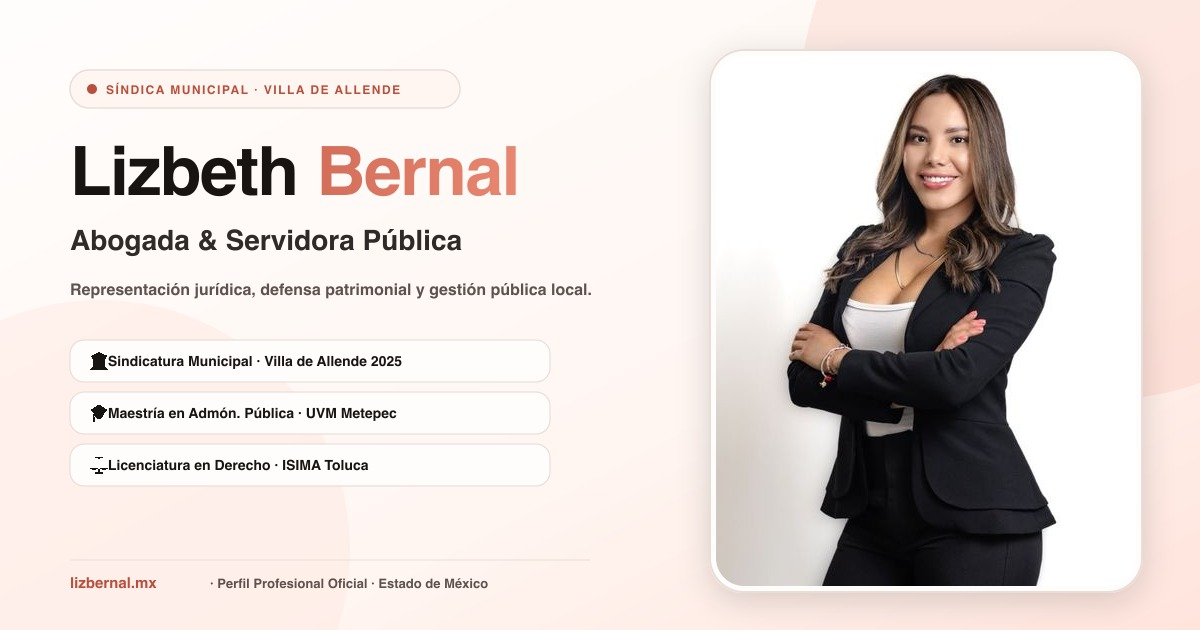
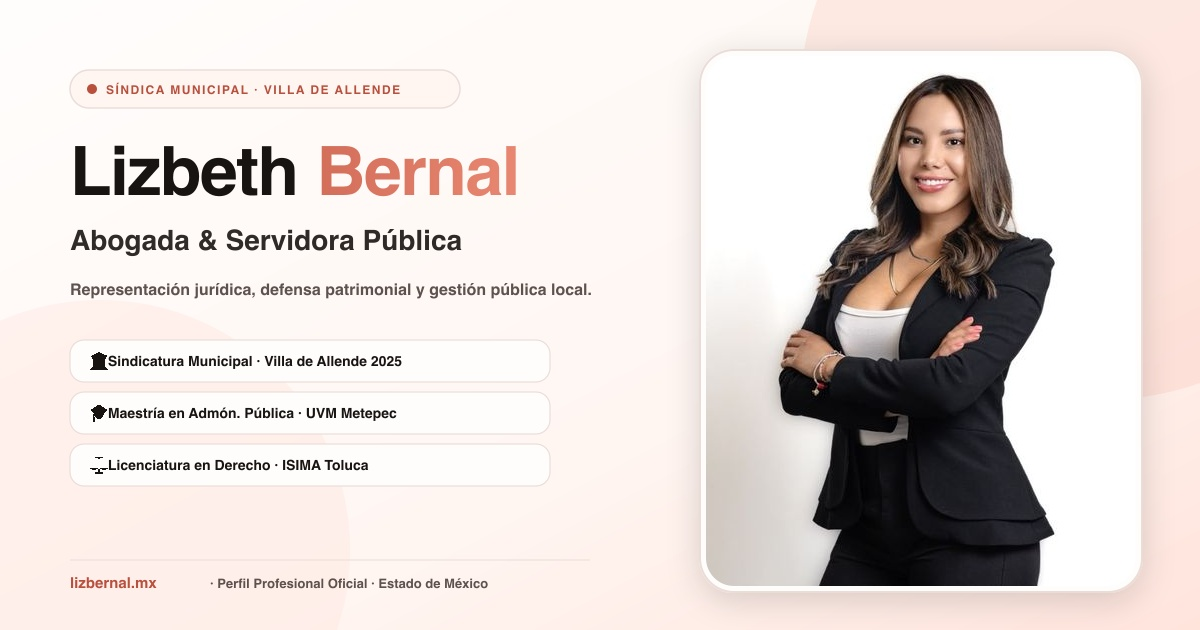
feat: updated OpenGraph preview cards across all formats with the newly uploaded official portrait of Lizbeth Bernal

diff --git a/scripts/generate-og.js b/scripts/generate-og.js
@@ -6,11 +6,11 @@ async function createOgImage() {
   const width = 1200;
   const height = 630;
 
-  // 1. Prepare portrait: resize and round corners
-  const portraitPath = path.join(__dirname, '../public/images/lizbeth-bernal-retrato.jpg');
+  // 1. Prepare newly uploaded portrait: resize and round corners
+  const portraitPath = path.join(__dirname, '../public/images/lizbeth-bernal-og-portrait.jpg');
   
-  // Crop / resize portrait to 420x530
-  const portraitWidth = 420;
+  // Crop / resize portrait to 430x530 with perfect focus on face and posture
+  const portraitWidth = 430;
   const portraitHeight = 530;
   
   const portraitBuffer = await sharp(portraitPath)
@@ -103,7 +103,7 @@ async function createOgImage() {
       </g>
 
       <!-- Right Column: Portrait Photo Frame Border & Shadow -->
-      <g transform="translate(710, 50)" filter="url(#shadow)">
+      <g transform="translate(700, 50)" filter="url(#shadow)">
         <rect width="${portraitWidth + 12}" height="${portraitHeight + 12}" rx="34" fill="#FFFDFC" stroke="#EADDD8" stroke-width="2"/>
       </g>
     </svg>
@@ -117,18 +117,19 @@ async function createOgImage() {
       {
         input: roundedPortrait,
         top: 56,
-        left: 716,
+        left: 706,
       },
     ])
-    .jpeg({ quality: 92 })
+    .jpeg({ quality: 95 })
     .toBuffer();
 
   // Save as static files for OpenGraph / WhatsApp / Facebook / Twitter
   fs.writeFileSync(path.join(__dirname, '../public/og-image.jpg'), finalOgImage);
   fs.writeFileSync(path.join(__dirname, '../public/images/og-lizbeth-bernal.jpg'), finalOgImage);
+  fs.writeFileSync(path.join(__dirname, '../public/opengraph-image.jpg'), finalOgImage);
   fs.writeFileSync(path.join(__dirname, '../public/opengraph-image.png'), finalOgImage);
   
-  console.log('✅ OpenGraph image generated successfully at 1200x630!');
+  console.log('✅ OpenGraph image generated successfully with the new official portrait at 1200x630!');
 }
 
 createOgImage().catch(console.error);
